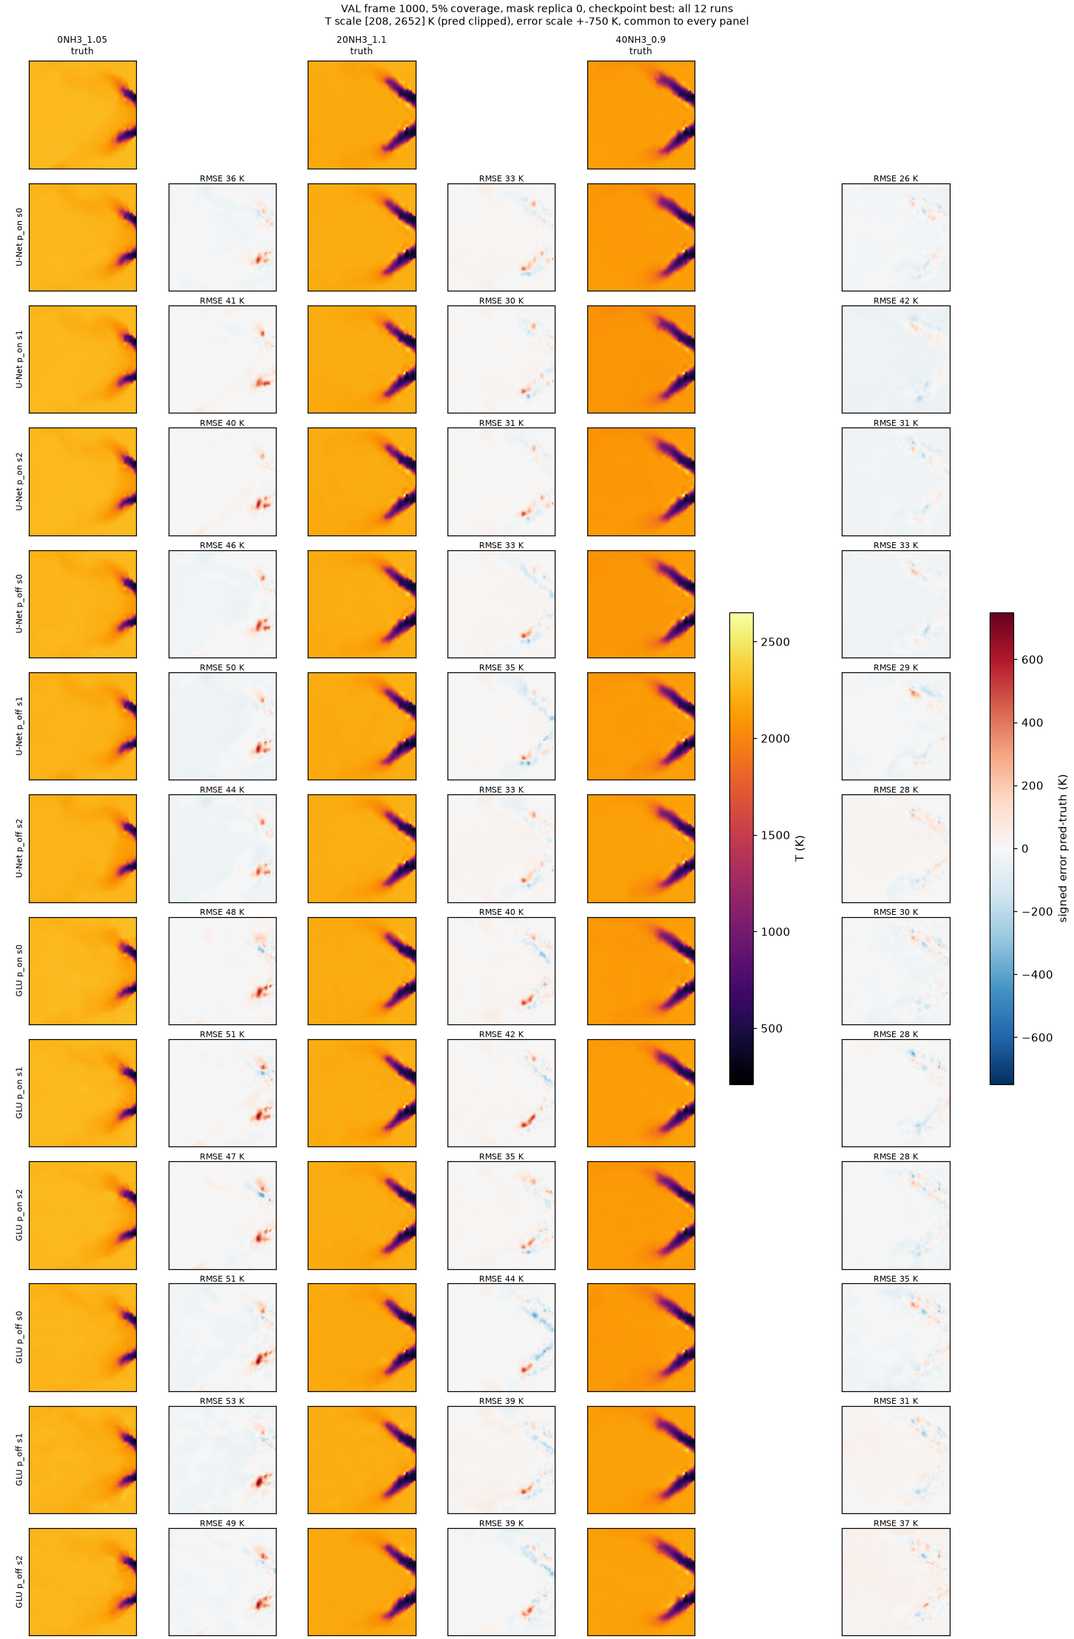
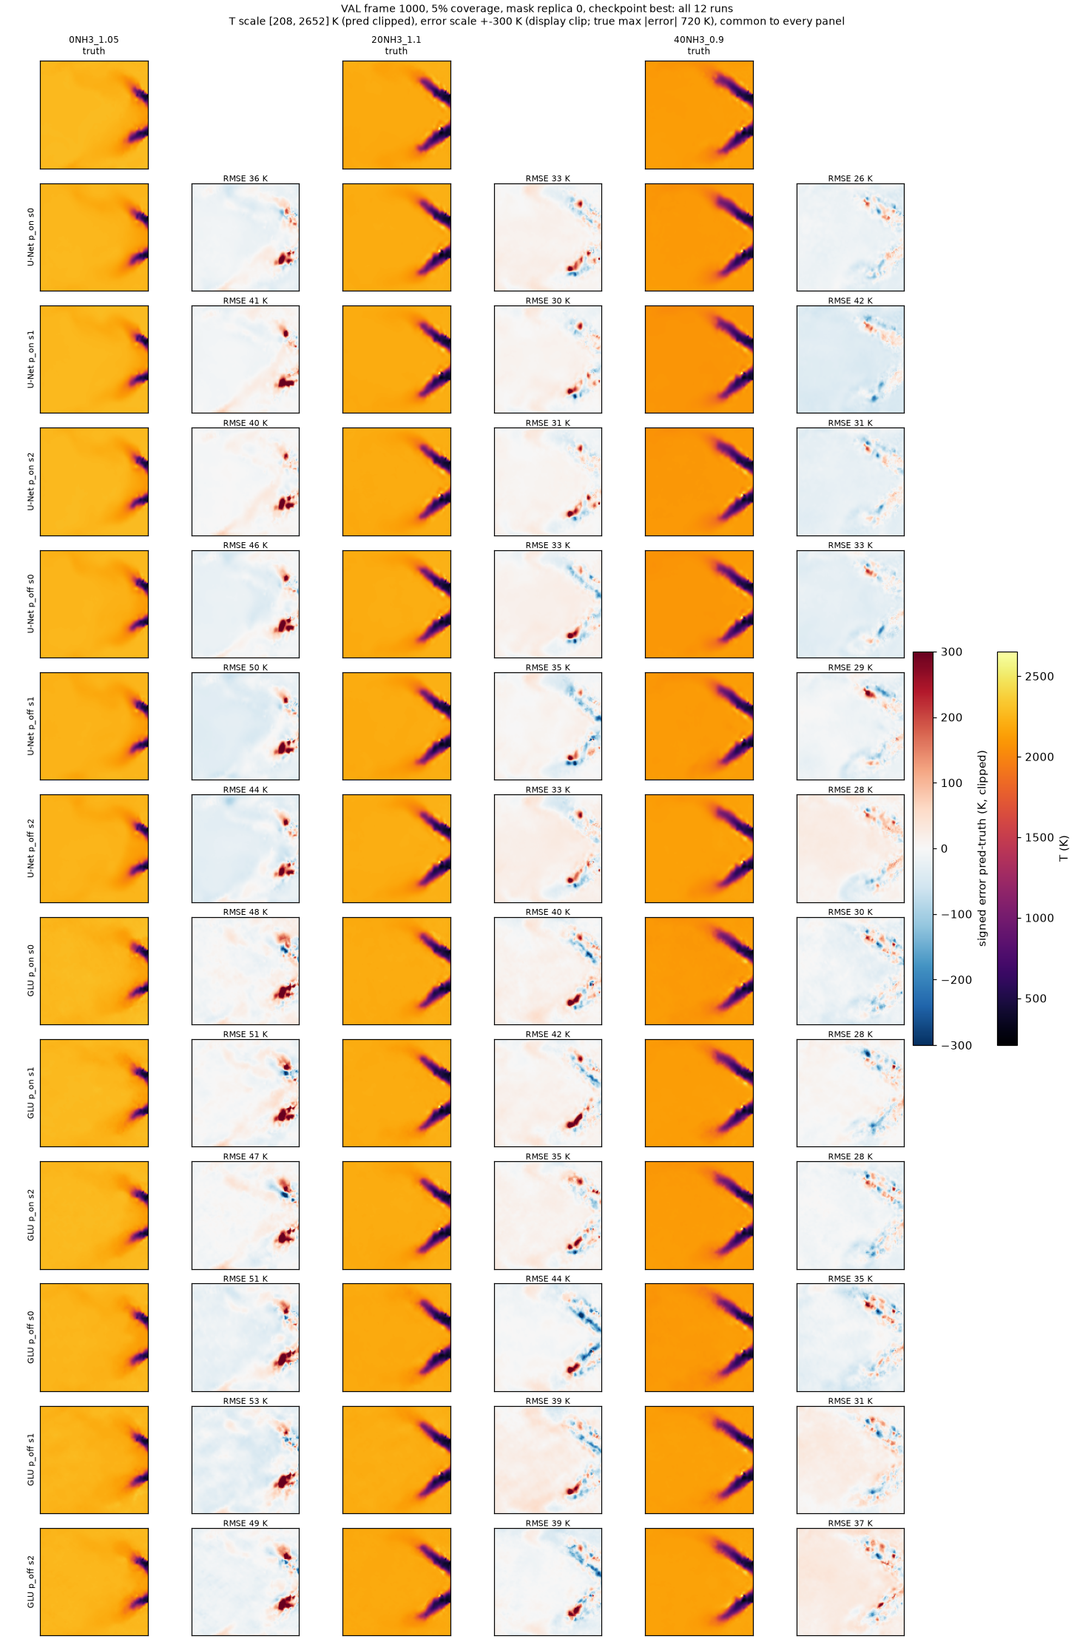
Close S7 at STOP F (temperature-free): residuals, fields, report 10, roadmap/log/index updates

diff --git a/docs/month2/10_s7_c149_model_comparison.md b/docs/month2/10_s7_c149_model_comparison.md
@@ -1,0 +1,42 @@
+# S7 — Confronto C149 U-Net / GLU adattato, temperature-free (21 novembre 2026)
+
+**Stato:** valutazioni, controlli e residui S7 eseguiti e verificati nel perimetro temperature-free. Le metriche sono della **valutazione finale S7** (non del loop). Nessuna regola di selezione preregistrata è stata applicata; la lettura finale è una decisione di sviluppo post-risultati (§9). Pacchetto e indice: `results/month2/s7_c149_comparison/package/INDEX.md`.
+
+## 1. Matrice e provenienza
+12 run C149 (2980 frame, 149 per condizione TRAIN), velocità TRAIN 5%, K=0 senza T nel forward: U-Net masked e GLU adattato deterministico × p_on/p_off × seed 0/1/2 (seed modello = seed shuffle). Dieci nuovi training (SHA `f792b73`, array 29799680; glu-on-s1 esteso da 1000 a 1080 epoche con continuazione autorizzata, SHA `501d41a`, job 29966737, tranche 1 preservata con manifest) e due U-Net seed 0 riusati (O-C149-on/off-s0, SHA `d633200`, file e hash verificati). Tutti chiusi per early-stop con la stessa regola; best primario = primo minimo assoluto VAL 5% del loop. Matrice di valutazione congelata `configs/experiments/month2_s7_c149_eval_matrix.json` (SHA256 `a76bac9b…`); valutazione `acc8e2b` (job 29984795/29984812), pacchetto `aadf05c` (job 29988745). Gate loop-parity 5% (macro 0.05 K) 18/18 per run, scarto massimo 0 K; 357372 righe, 972 CSV, `mask_hash` per riga = payload verificato.
+
+## 2. Risultati per famiglia e p (VAL123, 5%, best; media dei 3 seed, [min–max])
+| | RMSE | centered | |bias| medio per frame | bias firmato |
+|---|---:|---:|---:|---:|
+| U-Net p_on | 39.7 [38.2–42.2] | 34.4 | 14.0 | −7.8 |
+| U-Net p_off | 40.6 [39.8–41.6] | 35.1 | 16.4 | −8.3 |
+| GLU p_on | 42.7 [41.5–43.5] | 41.0 | 9.6 | +1.8 |
+| GLU p_off | 44.5 [43.8–45.2] | 40.9 | 15.3 | +0.1 |
+
+I range dei seed si sovrappongono (U-Net p_on seed 1: 42.2; GLU p_on seed 1: 41.5). Risultati individuali: `package/tables/global_by_setting.csv`, `headline_best_5pct_by_run.csv`. **Livello vs struttura:** la U-Net ha centered RMSE più bassa (circa 6 K su VAL) ma bias firmato negativo (≈ −8 K); il GLU ha bias firmato vicino a zero e |bias| minore con p_on. **seen220** (5%, best): U-Net 42.3 (p_on) / 44.8 (p_off); GLU 50.1 / 53.3. **reference760** (parte del pool di fit): U-Net 28 K, GLU 43 K. **best vs last:** su VAL last − best è positivo per tutti (U-Net +1.0/+2.4, GLU +1.5/+0.5 K) mentre sul TRAIN la U-Net scende a ~14 K (last): la VAL peggiora mentre il fit migliora. VAL123 è stata usata per scegliere il best: non è conferma indipendente.
+
+## 3. Coperture 1/5/20% (best, VAL, media seed)
+1%: U-Net 68.3 (p_on) / 80.0 (p_off); GLU 63.6 / 70.6. 20%: U-Net 37.7 / 48.6; GLU 42.4 / 43.4. La U-Net p_off peggiora da 5% a 20% (+8 K), con bias firmato +7.5 K; il GLU resta quasi piatto. 1% e 20% generalizzano la densità di TRAIN del 5% (nessun TRAIN multidensità): non sono una curva ottima del numero di sensori. Tabelle: `family_p_seed_dispersion.csv`, `coverage_degradation.csv`.
+
+## 4. Snapshot-swap neurale (best, 5%, replica 0)
+Stessi siti del destinatario, velocità del donatore a quei siti, coordinate/p/target del destinatario; pairing S6 ricostruito e confrontato con quello persistito; tag di famiglia/p/seed/epoca/hash dalla matrice; aligned riusati dalla valutazione verificata (stessi frame, stesso `mask_hash`) e rigiocati (scarto per-frame 0.0). Riferimento RMSE(T_donatore, T_destinatario): seen 153.9 K, VAL 97.4 K. Swapped, media seed: seen 148–150 K (tutti i modelli), VAL: U-Net 100.0 (p_on) / 101.4 (p_off), GLU 96.7 / 99.4; aligned VAL 39–45 K. In ogni condizione e per ogni run lo swap peggiora l'RMSE di almeno 3 K (seen) / 5.8 K (VAL); fino a 20% dei frame di una condizione VAL ha swapped < aligned solo per scostamenti per-frame, mai in media. Le predizioni dipendono dall'istantanea osservata, non solo dal layout; lo swap misura sensibilità all'istantanea, non causalità fisica. Tabelle in `residuals/tables/swap_neural_*.csv`.
+
+## 5. Swap GappyPOD residuo S6 (contesto A38 congelato)
+Oggetti A38 storici (artefatto SHA `a6fbdfd2…`, non rifittati), stesso pairing e osservazioni; aligned rigiocati = righe S6 (scarto 0.0). VAL: p_on 70.5 → 98.4 K, p_off 95.1 → 129.0 K (donatore 97.4); seen: p_on 108.4 → 130.8, p_off 113.2 → 153.6. Contesto separato dal fit C149.
+
+## 6. Baseline C149 a pari dati
+GlobalTrainMean, ParamConditionedMean, GappyPOD R=32 p_on/off fittati sull'intero pool C149 (2980 frame, 20×149), iperparametri **congelati** (λ p_off 1e-3, p_on 1e-2; ParamMean piecewise_phi1, α 0.01; w_T 5, seed 0; normalizzatore storico 760 usato solo per denormalizzare le velocità), nessun tuning su VAL, nessun refit A38. Controllo: lo stesso codice sul sottoinsieme A38 della stessa cache riproduce i 12 valori storici (scarto max 2.5e-8 K). VAL 5% C149: GlobalMean 139.6, ParamMean 87.7, GappyPOD p_off 93.8, p_on 70.6 K (A38 storico: 139.7, 88.0, 94.8, 70.6). L'effetto del pool sui baseline è piccolo (≤ 2.1 K, VAL ≤ 1.0 K). I neurali (VAL 5% ≈ 40–45 K) sono ben sotto tutti i baseline; GappyPOD p_on varia poco con la copertura. Tabelle `residuals/tables/baselines_*.csv`.
+
+## 7. Diagnostico batch del GLU (separato dai risultati)
+Frame TRAIN/VAL dello smoke, best GLU p_on e p_off e controllo U-Net (non modifica pesi né CSV). **Ripetizione identica:** differenza 0. **B=8 fisso, cambiano solo gli altri 7 esempi** (reali, riordinati, estremi con velocità ×10 e p +3): differenza 0.000 K per GLU e U-Net → nessuna dipendenza funzionale dagli altri esempi. **Forma del batch:** B=2,3,6 ≤ 2.0e-3 K; **B=1** differisce fino a 114 K su singoli pixel (media per frame 0.02–0.05 K, RMSE di frame ≤ 0.03 K) con cambi dell'insieme top-k su 2623 query per frame di prova; `cdist` a distanze dirette cambia i top-k su ~5000 query e l'RMSE di frame fino a 0.08 K. Le query con distanza k-esima/(k+1)-esima a meno di 1e-6 sono ~1067 per frame: **pareggi di distanza sulla griglia regolare** risolti diversamente dall'arrotondamento. Conclusione: sensibilità numerica dei pareggi top-k alla forma del calcolo, non errore funzionale; U-Net: ≤ 6e-4 K. Impatto: la valutazione usa batch 8 come il loop (parity bit-identico); scegliere un'altra forma del batch può spostare un frame fino a ~0.03–0.08 K. Gli scarti dello smoke (≤ 0.04 K) sono coerenti. Tabelle `batch_diagnostic_*.csv`.
+
+## 8. Figure, costi, risultati sfavorevoli
+Figure: `package/figures/*` (curve per copertura, punti 5%, differenze appaiate, VAL per condizione, centered vs bias con etichetta corretta «mean over frames of per-frame |bias|»), `fields/fields_val_frame1000_{best,last,best_seen_diagnostic}.png` (tre VAL, 12 run, scale comuni dichiarate: T [208, 2652] K, errore ±300 K clippato per la visualizzazione, massimo reale 720 K; campi coerenti con i CSV entro 2.1e-5 K), `residuals/figures/*`. Costi (sacct): training compute U-Net 3.8–4.2 h, GLU 5.5–7.8 h (due attempt per cap 5.5 h; l'attesa GLU include il limite %4 dell'array); valutazione 53–82 min per run, uguale per le due famiglie. Sfavorevoli: la U-Net p_off peggiora a 20% e a 1%; la U-Net ha bias VAL fortemente negativo; il GLU ha centered più alta e RMSE seen/reference760 peggiori; tutti i modelli peggiorano molto sotto swap; VAL non indipendente; glu-on-s1 ha richiesto estensione oltre la tranche.
+
+## 9. Letture e decisione (attribuite)
+- **Revisori Opus e Neon** (analisi di tabelle e figure): concordano che la U-Net sia complessivamente preferibile nella ricetta temperature-free studiata (accuratezza/struttura migliori e costo minore); il GLU conserva vantaggi nel livello e in alcuni casi fuori densità.
+- **Decisione del coordinatore** (sviluppo post-risultati, **non** regola preregistrata né superiorità generale dell'architettura): U-Net p_on è il candidato operativo free; p_off resta nel confronto. Lo sweep K successivo includerà entrambe le famiglie e p_on/off; la matrice dei training con T sarà decisa dopo lo sweep, senza escludere definitivamente il GLU.
+- Non sono stati applicati i criteri restrittivi proposti nelle review (range disgiunti, vittoria su ogni metrica, costo mai superiore): non approvati.
+
+## 10. Limiti
+Seed 0/1/2 solo per C149; VAL usata nella selezione; tre repliche di maschera non sono tre training; il seed nominale non rende uguali i pesi iniziali fra architetture; own_pool_train non calcolato (opzionale); baseline A38 restano riferimento storico.

diff --git a/results/month2/s7_c149_comparison/package/INDEX.md b/results/month2/s7_c149_comparison/package/INDEX.md
@@ -2,7 +2,7 @@
 
 **Provenienza.** Tabelle, figure e `package_manifest.json` sono output grezzi del job CPU 29988745 (21 novembre 2026, 48 s; codice `aadf05c`, evaluator `acc8e2b`) sulle valutazioni complete 29984795 (11 run) e 29984812 (glu-on-s1 esteso). I costi vengono da `sacct`. Questo `INDEX.md` è stato rivisto a mano dopo la generazione (sezioni «validati» e «mancanti», verifiche del revisore tecnico): tabelle e figure non sono state toccate. Output completi sul cluster: `/home/bontempi/official_thesis_s7_c149_eval/` (per-frame, campi, provenance) e `/home/bontempi/official_thesis_s7_c149_package/`.
 
-Pacchetto tecnico per il revisore. Descrittivo: nessuna classifica, nessun vincitore, nessuna regola di selezione applicata (la proposta Opus non è approvata).
+Pacchetto tecnico per il revisore (completato con i residui in `../residuals/` e `../fields/`). Descrittivo: nessuna classifica, nessun vincitore, nessuna regola di selezione applicata (la proposta Opus non è approvata).
 Metriche = valutazione finale S7, non metriche del loop. VAL123 già usata nella selezione del best: non è conferma indipendente.
 
 ## Completezza
@@ -53,14 +53,16 @@ Utilizzabili ora per l'analisi descrittiva (nessun vincitore indicato qui):
 - `rmse_vs_coverage_last.png`
 - `val_by_condition_5pct_best.png`
 
-## Attività ancora MANCANTI per STOP F (non eseguite, non dichiarate complete)
+## Attività S7 per STOP F — stato finale (21 novembre 2026)
 
 | # | Attività | Stato |
 |---|---|---|
-| 1 | Snapshot-swap neurali, best@5% replica 0, seen e VAL, stesso pairing/osservazioni/riferimento donatore, 12 run | NON eseguito (funzioni S6 `evaluate_swap`/`build_within_condition_swap_pairs` family-aware; manca il wrapper S7 guidato dalla matrice, con readback e gate) |
-| 2 | Residuo swap GappyPOD p_on/off di S6 (CPU) | NON eseguito né verificato |
-| 3 | Baseline C149 con pool e ricetta di fit versionati (nessun refit A38; baseline A38 = riferimenti storici) | NON eseguite |
-| 4 | Specifica `month2_s7_c149_protocol.yaml` con regola di scelta del seguito (da approvare), report `docs/month2/10_s7_c149_model_comparison.md`, decisione sul seguito | NON creati |
-| 5 | Altri controlli: `own_pool_train` (opzionale, separato) non calcolato; analisi interpretativa, pannelli di campo su tutte le VAL, tabelle di regioni con conteggi validi commentate | NON eseguiti (il pacchetto è tecnico, non interpretativo) |
+| 1 | Snapshot-swap neurali, 12 best, 5% replica 0, seen/VAL | ESEGUITO e verificato (`../residuals/`, job 30027646; aligned riusati con identità/hash/mask_hash verificati) |
+| 2 | Swap GappyPOD p_on/off S6 (oggetti A38 congelati) | ESEGUITO (job 30027643), contesto A38 distinto |
+| 3 | Baseline C149 (GlobalMean, ParamMean, GappyPOD R=32 p_on/off) | ESEGUITE (job 30027642), controllo sottoinsieme A38 ok (scarto max 2.5e-8 K) |
+| 4 | Diagnostico batch GLU | ESEGUITO (job 30027668): nessuna dipendenza dagli altri esempi; sensibilità numerica dei pareggi top-k alla forma del batch |
+| 5 | Figure dei campi (3 VAL, 12 run) ed etichetta centered-vs-bias | ESEGUITE (`../fields/`, figura corretta in `figures/`) |
+| 6 | Report `docs/month2/10_s7_c149_model_comparison.md`, roadmap/registro/README | ESEGUITI |
+| — | own_pool_train | opzionale, NON eseguito |
 
-**STOP F non è dichiarato.** Mese 2 e assisted restano aperti. Nessuno sweep K, nessun training con T, nessun TEST.
+**STOP F concluso nel perimetro temperature-free.** Mese 2 e assisted restano aperti. Lettura dei revisori e decisione del coordinatore: report 10 §9 (decisione di sviluppo post-risultati, non regola preregistrata). Residui: `../residuals/` (tabelle `swap_*`, `baselines_*`, `batch_diagnostic_*`; figure). Nessuno sweep K, nessun training con T, nessun TEST.

diff --git a/README.md b/README.md
@@ -8,7 +8,7 @@
 **Month 2 Protocol:** [configs/splits/month2_frame_protocol.yaml](configs/splits/month2_frame_protocol.yaml), [configs/experiments/month2_pilot.yaml](configs/experiments/month2_pilot.yaml)  
 **Baseline Consolidation Mission:** [roadmap_missione.md](roadmap_missione.md) — completed on `mission/baseline-consolidation` at `3cf7bf0`; report [docs/month2/mission_baseline_consolidation_report.md](docs/month2/mission_baseline_consolidation_report.md); integration pending  
 **U-Net dense mission (Step 2.4):** [roadmap_unet.md](roadmap_unet.md) — **U0–U7 closed** on `mission/dense-unet` (p_on/p_off seed 0 + snapshot controls; further seeds deferred). Report: [docs/month2/03_dense_velocity_diagnostic.md](docs/month2/03_dense_velocity_diagnostic.md). Results: `results/month2_dense_unet/`. Month 2 **not** complete (S7 confirmation and Steps 2.7–2.9 open).  
-**Sparse mission (Steps 2.5–2.6):** [roadmapsparse.md](roadmapsparse.md) — S0–S6 screening delivered at STOP E; residual GappyPOD swap tracked in S7. **Approved S7:** C149 (149 frames/condition, 2980 total), TRAIN velocity 5%, masked U-Net and adapted deterministic GLU × p_on/off × seeds 0/1/2. **10 new trainings + 2 existing U-Net C149 seed-0 runs**; preparation and submission are the next Sonnet assignment. No S7 job submitted by this documentation update. No arbitrary scientific hour cap.
+**Sparse mission (Steps 2.5–2.6):** [roadmapsparse.md](roadmapsparse.md) — S0–S6 screening delivered at STOP E; S7 closed at STOP F (temperature-free, 21 Nov 2026; report `docs/month2/10_s7_c149_model_comparison.md`, index `results/month2/s7_c149_comparison/package/INDEX.md`); Month 2 remains open. **Approved S7:** C149 (149 frames/condition, 2980 total), TRAIN velocity 5%, masked U-Net and adapted deterministic GLU × p_on/off × seeds 0/1/2. **10 new trainings + 2 existing U-Net C149 seed-0 runs**; preparation and submission are the next Sonnet assignment. No S7 job submitted by this documentation update. No arbitrary scientific hour cap.
 **Completed diagnostic studies:** [Opus roadmap](roadmapopus.md) (data/training variability; O6 adopts C149) and [Astra roadmap](roadmapastra.md) (S5 level/structure and median9 exploratory diagnostic). Sources remain on their dedicated branches; closure is not an integration claim. Their future use is incorporated into the current Month-2 plan.
 **Temperature experiments after S7:** first K=0/1/4/9/16/32 mean/median correction sweep with matched baselines; then learned T inputs on the selected backbone, or **both families if the comparison is inconclusive**, using exactly the same K/sites/observations. Learned-training matrix is specified before execution. No current TEST authorization.  
 **Research Log:** [docs/RESEARCH_LOG.md](docs/RESEARCH_LOG.md)  

diff --git a/docs/month2/s7_eval_handoff.md b/docs/month2/s7_eval_handoff.md
@@ -92,3 +92,7 @@ Codice pushato su `s7/c149-free-campaign`: scripts 42 (swap neurale), 43 (baseli
 | **30027668** | diagnostico batch GLU (p_on, p_off) + U-Net | 158dfa3 | PENDING (slot GPU) | `/home/bontempi/official_thesis_s7_batch_diag_v1` |
 Primi numeri (non interpretati): baseline C149 VAL 5%: GlobalTrainMean 139.59, ParamConditionedMean 87.73, GappyPOD p_off 93.79, p_on 70.56 K (A38 storico: 139.70 / 88.01 / 94.80 / 70.60). Swap Gappy A38 VAL: p_on aligned 70.5 → swapped 98.4, p_off 95.1 → 129.0, riferimento donatore 97.36 K (come S6).
 **Da fare alla ripresa (in ordine):** (1) leggere esiti 30027646 e 30027668 (`sacct`, marker COMPLETE/DIAG_OK, `SWAP_FAILED.json`); se falliscono, causa prima di rilanciare; (2) `scripts/46_s7_field_figures.py --matrix configs/experiments/month2_s7_c149_eval_matrix.json --eval-root /home/bontempi/official_thesis_s7_c149_eval --package-tables /home/bontempi/official_thesis_s7_c149_package/tables --dest /home/bontempi/official_thesis_s7_c149_fields` (CPU, no inferenza) e ispezionare le figure; (3) `scripts/48_s7_residuals_package.py` con `--swap-root`, `--gappy-swap-root`, `--baselines-root`, `--diag-root`, `--package-tables`, `--eval-root`, `--matrix`, `--dest /home/bontempi/official_thesis_s7_c149_residuals`; (4) scaricare in `results/month2/s7_c149_comparison/{residuals,fields}/`, correggere la figura centered_vs_bias nel pacchetto (nuova etichetta «mean over frames of per-frame |bias|»); (5) scrivere `docs/month2/10_s7_c149_model_comparison.md` e aggiornare in modo circoscritto roadmapsparse/roadmap_month2/RESEARCH_LOG/README; STOP F solo se tutto verificato; (6) commit/push.
+
+---
+## AGGIORNAMENTO 21 novembre 2026, ~23:30 EST — residui conclusi, STOP F registrato
+Swap neurali 30027646 (12/12 COMPLETE), diagnostico 30027668 (DIAG_OK), baseline 30027642, swap Gappy 30027643: tutti verificati e aggregati (`results/month2/s7_c149_comparison/{residuals,fields}`; code `b2b6e79`/`951748b`). Report `docs/month2/10_s7_c149_model_comparison.md`; indice unico `results/month2/s7_c149_comparison/package/INDEX.md`. STOP F concluso nel perimetro temperature-free; Mese 2 aperto; prossimo blocco sweep K su entrambe le famiglie e p_on/off.

diff --git a/docs/RESEARCH_LOG.md b/docs/RESEARCH_LOG.md
@@ -526,3 +526,10 @@ L'import in `scripts/26_opus_o5_eval.py` chiede `combustion_recon.training.norma
 ## 2026-11-20 — S7: preparazione, smoke e submission dei dieci training free C149
 
 Branch `s7/c149-free-campaign`, SHA eseguito `f792b73388d43f008e8979f1aad0d1fa961cb559`. Preemptable con account Advanced non consentito dallo scheduler (`mit_amf_advanced_gpu` valido solo su `mit_normal_gpu`); Enrico sceglie `mit_normal_gpu` + Advanced non preemptable. Smoke reali U-Net (29797847) e GLU (29797848): PASS, dopo due errori reali corretti (automount `/orcd/pool` in timeout sui nodi → copia in home con stessi hash; RNG di resume su GPU da riportare su CPU). Array **29799680** (`0-9%4`, L40S, 6h, cap interno 5.5 h): task 0–3 (U-Net) in esecuzione con epoche reali; task 4–9 (GLU) pending. Dettagli e comandi in [s7_training_handoff.md](month2/s7_training_handoff.md). Nessun training concluso, nessuna valutazione; S7, sparse e Mese 2 restano aperti.
+
+
+---
+
+## 2026-11-21 — S7: valutazioni, residui e chiusura STOP F (temperature-free)
+
+Branch `s7/c149-free-campaign`. Valutazioni 12/12 (SHA `acc8e2b`, matrice `a76bac9b…`), gate loop 18/18 con scarto 0 K; continuazione di glu-on-s1 chiusa a epoca 1080 (best 630 invariato). Residui: swap neurali sui 12 best (job 30027646), swap GappyPOD con oggetti A38 congelati (30027643), baseline C149 con iperparametri congelati e controllo sul sottoinsieme A38 (30027642), diagnostico batch GLU (30027668: nessuna dipendenza dagli altri esempi a B=8 fisso; sensibilità numerica dei pareggi top-k alla forma del batch). Figure dei campi e correzione dell'etichetta centered-vs-bias. Revisori Opus/Neon: U-Net complessivamente preferibile nella ricetta free; decisione del coordinatore: U-Net p_on candidato operativo free, p_off nel confronto, sweep K su entrambe le famiglie e p_on/off, matrice con T dopo lo sweep (decisione di sviluppo post-risultati, non regola preregistrata). **STOP F concluso nel perimetro temperature-free; Mese 2 aperto.** Indice: `results/month2/s7_c149_comparison/package/INDEX.md`; report `docs/month2/10_s7_c149_model_comparison.md`.

diff --git a/roadmapsparse.md b/roadmapsparse.md
@@ -345,6 +345,6 @@ Estensioni di tranche esplicite, checkpoint completi distinti da partial; no res
 - [x] S4 — Profiling + freeze neurale; GappyPOD nested 1/5/20% gate-pass job **29601906**. STOP C chiuso per sparse.
 - [x] S5 — Screening seed 0 COMPLETED (early-stop) tip `38ac7fe`. STOP D.
 - [x] S6 — Consegna storica STOP E: best/last 1/5/20% ×3 ruoli ×3 mask-replicas, swap neurali e Gappy nested; `results/month2/s6_sparse_eval/STOP_E_delivery/`. Residuo swap GappyPOD trasferito esplicitamente alla checklist S7, non dichiarato eseguito.
-- [ ] S7 — C149 U-Net/GLU × p_on/off × seed 0/1/2: 10 nuovi training + 2 U-Net riusati, valutazione completa, residui S6 e report. Approvato il piano; non ancora eseguito. STOP F.
+- [x] S7 — C149 U-Net/GLU × p_on/off × seed 0/1/2: 10 nuovi training + 2 U-Net riusati, valutazione completa 12/12 (gate loop 18/18), swap neurali 12/12, swap GappyPOD A38 congelato, baseline C149 (GlobalMean, ParamMean, GappyPOD R=32 p_on/off; controllo A38 ok), diagnostico batch GLU, figure e report `docs/month2/10_s7_c149_model_comparison.md`; pacchetto `results/month2/s7_c149_comparison/package/INDEX.md`. **STOP F concluso nel perimetro temperature-free (21 novembre).** Opzionale non eseguito: own_pool_train. Lettura dei revisori e decisione del coordinatore (U-Net p_on candidato operativo free, p_off nel confronto) registrate come decisione di sviluppo post-risultati, non regola preregistrata. Mese 2 e assisted restano aperti.
 
-**Prossimo incarico:** Sonnet prepara, verifica, congela e sottomette i dieci training temperature-free S7 già approvati. Nessun job lanciato da questo commit documentale; recupero/eval e analisi seguono l'incarico operativo. Sweep K e T in ingresso vengono dopo la campagna free, nello Step 2.7.
+**Prossimo blocco:** sweep K media/mediana su entrambe le famiglie e p_on/off (stessi K/siti), poi training con T in ingresso a K variabile; la matrice di quei training sarà decisa dopo lo sweep (GLU non escluso). Nessun job lanciato da questo aggiornamento.

diff --git a/roadmap_month2.md b/roadmap_month2.md
@@ -173,7 +173,7 @@ Il risultato minimo originario del Mese 2 è una pipeline riproducibile, baselin
 
 ### Step 2.6 — Ricostruzione temperature-free da velocità sparsa
 
-- **Stato:** primo confronto A38 seed 0 eseguito e consegnato a STOP E; **conferma C149 estesa approvata e ancora da eseguire**. Classe I + E. [roadmapsparse.md](roadmapsparse.md) è il piano operativo S7 (10 nuovi training + 2 riusi), autorizzato esplicitamente da Enrico il 20 novembre; questo commit documentale non lancia job.
+- **Stato:** primo confronto A38 seed 0 eseguito e consegnato a STOP E; **conferma C149 eseguita: S7/STOP F concluso nel perimetro temperature-free il 21 novembre** (report `docs/month2/10_s7_c149_model_comparison.md`; U-Net p_on candidato operativo free per decisione di sviluppo post-risultati, p_off e GLU restano nel confronto); Mese 2 resta aperto, prossimo blocco sweep K su entrambe le famiglie e p_on/off. Classe I + E. [roadmapsparse.md](roadmapsparse.md) è il piano operativo S7 (10 nuovi training + 2 riusi), autorizzato esplicitamente da Enrico il 20 novembre; questo commit documentale non lancia job.
 - **Problema:** quanto errore aggiungono osservazioni incomplete e rappresentazione/architettura, rispetto al diagnostico denso?
 - **Motivazione/dipendenze:** 2.4, e 2.5 per GLU. Serve prima una baseline sparse neurale semplice, poi il candidato del laboratorio con gli stessi input.
 - **Attività concrete:**
